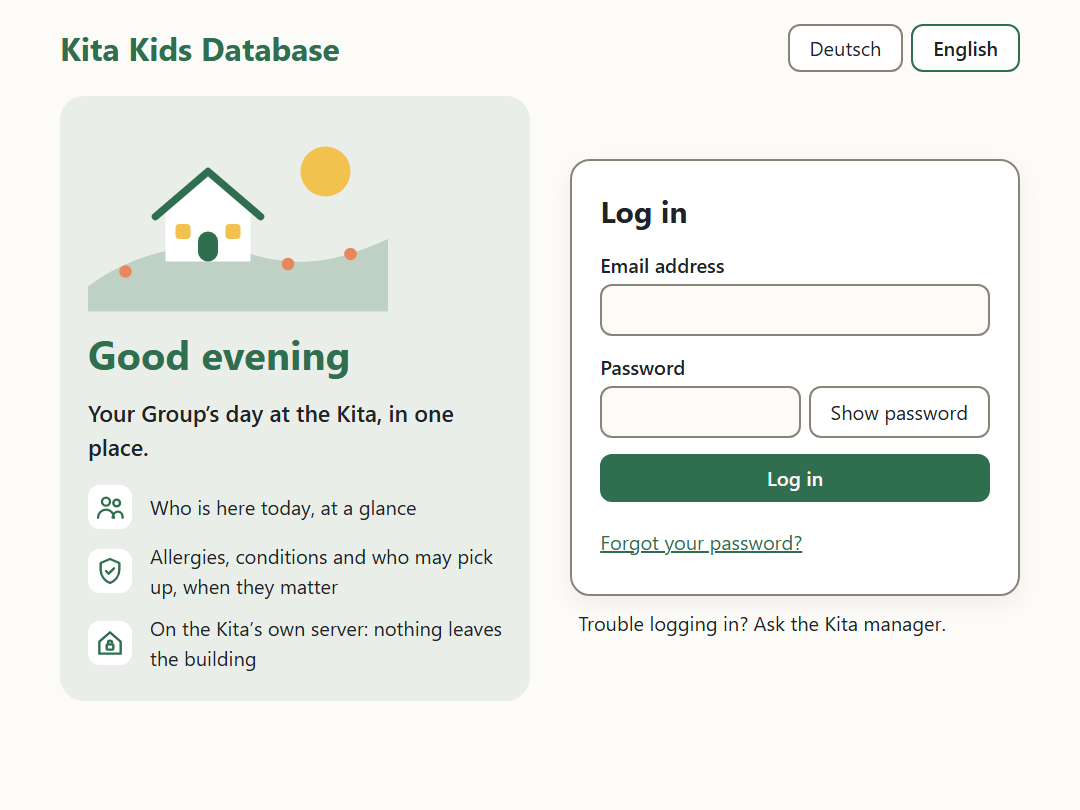
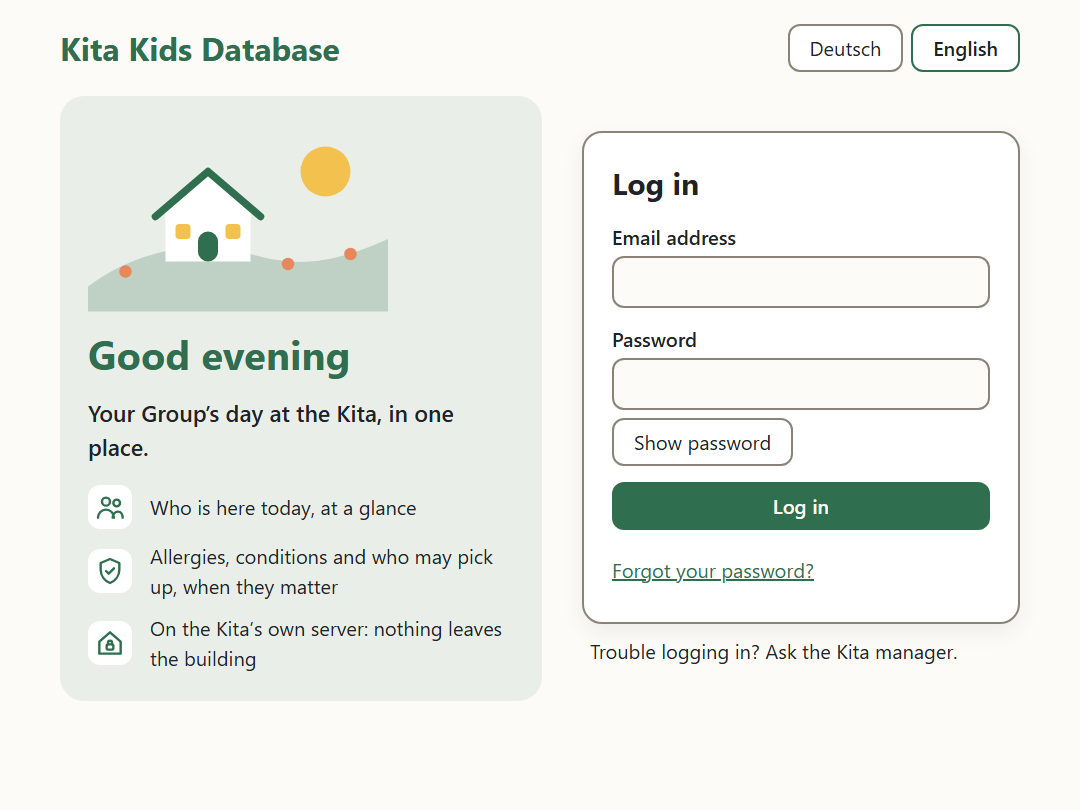
Update the kits, server guide and screenshots for the upgraded pages (#58)
New screenshots in English and German, now also of the login page and
the start page on a 375px phone. The server guide explains KITA_NAME,
KITA_LOGO and KITA_CLOSES_AT; the manual and cards mention "Show
password", the greeting, the day bar and "Needs attention"; the style
guide notes the line icons and the bar's patterns.

The phone screenshots showed the login card wider than the screen: the
login grid may now shrink, and "Show password" moves below the field
when there is no room.

Closes #58

Changed region(s): [[0.5194, 0.1852, 0.9167, 0.8333], [0.9167, 0.7099, 0.9472, 0.7716], [0.9167, 0.1543, 0.9472, 0.216]]

diff --git a/frontend/screens/capture.spec.ts b/frontend/screens/capture.spec.ts
@@ -60,14 +60,18 @@ async function seed(api: APIRequestContext): Promise<{ group: number; lena: numb
   return { group, lena }
 }
 
-async function shoot(page: Page, language: 'en' | 'de', name: string): Promise<void> {
+// A phone held upright, for the screens that change most there.
+const PHONE_WIDTH = 375
+
+async function shoot(page: Page, language: 'en' | 'de', name: string, width?: number): Promise<void> {
   // Settled first: no spinner or half-loaded list in the picture.
   await page.waitForLoadState('networkidle')
   // As tall as the page, so the tab bar is at its foot as on the tablet (a full-page shot would
   // leave it where the tablet's screen ends), then back to the tablet's size.
   const tablet = page.viewportSize()!
+  await page.setViewportSize({ width: width ?? tablet.width, height: tablet.height })
   const height = await page.evaluate(() => document.documentElement.scrollHeight)
-  await page.setViewportSize({ width: tablet.width, height: Math.max(height, tablet.height) })
+  await page.setViewportSize({ width: width ?? tablet.width, height: Math.max(height, tablet.height) })
   await page.screenshot({ path: `${out}${language}/${name}.png` })
   await page.setViewportSize(tablet)
 }
@@ -82,6 +86,7 @@ test('screenshots of the main screens', async ({ page }) => {
   test.setTimeout(120_000)
   await page.goto('/')
   await shoot(page, 'en', '01-login')
+  await shoot(page, 'en', '11-login-phone', PHONE_WIDTH)
   await logInAsAdmin(page)
   const { group, lena } = await seed(page.request)
 
@@ -95,6 +100,7 @@ test('screenshots of the main screens', async ({ page }) => {
     }
     await page.goto('/')
     await shoot(page, language, '02-start')
+    await shoot(page, language, '12-start-phone', PHONE_WIDTH)
     await page.goto(`/groups/${group}`)
     await shoot(page, language, '03-group-today')
     // Before Lena goes home: who may pick her up.
@@ -121,4 +127,5 @@ test('screenshots of the main screens', async ({ page }) => {
   await page.goto('/')
   await expect(page.getByRole('button', { name: 'Anmelden' })).toBeVisible()
   await shoot(page, 'de', '01-login')
+  await shoot(page, 'de', '11-login-phone', PHONE_WIDTH)
 })

diff --git a/frontend/src/index.css b/frontend/src/index.css
@@ -202,13 +202,15 @@ button[aria-pressed='true'] {
 /* The login page: a warm welcome beside the login card; one above the other on narrow screens. */
 .login-page {
   display: grid;
+  /* Never wider than the screen: the column may shrink below its content's natural width. */
+  grid-template-columns: minmax(0, 1fr);
   gap: 24px;
   margin: 24px 0;
 }
 
 @media (min-width: 900px) {
   .login-page {
-    grid-template-columns: 1.1fr 1fr;
+    grid-template-columns: minmax(0, 1.1fr) minmax(0, 1fr);
     align-items: center;
     gap: 40px;
   }
@@ -325,11 +327,13 @@ button[aria-pressed='true'] {
 
 .password-field div {
   display: flex;
+  flex-wrap: wrap;
   gap: 8px;
 }
 
+/* At least about 12 characters wide; the button moves below the field when there is no room. */
 .password-field input {
-  flex: 1;
+  flex: 1 1 12rem;
   min-width: 0;
 }
 

diff --git a/docs/go-live/de/01-handbuch.md b/docs/go-live/de/01-handbuch.md
@@ -8,7 +8,7 @@ Für alle in der Kita, die mit der App arbeiten. Teil 1 ist für alle Mitarbeite
 
 ![Die Anmeldeseite](../../usability/screens/de/01-login.png)
 
-Die App vom Startbildschirm des Tablets öffnen (oder `https://kita.home.arpa` im Browser). Mit Ihrer E-Mail-Adresse und Ihrem Passwort anmelden. „Deutsch“ oder „English“ oben wechselt die Sprache; das Tablet merkt sie sich.
+Die App vom Startbildschirm des Tablets öffnen (oder `https://kita.home.arpa` im Browser). Mit Ihrer E-Mail-Adresse und Ihrem Passwort anmelden. „Passwort zeigen“ zeigt, was Sie getippt haben; nach dem Anmelden ist es wieder verborgen. „Deutsch“ oder „English“ oben wechselt die Sprache; das Tablet merkt sie sich.
 
 - **Ihr Konto.** Eine Admin legt es an; Sie bekommen eine E-Mail mit einem Link (7 Tage gültig). Folgen Sie ihm und wählen Sie ein Passwort mit mindestens 12 Zeichen.
 - **Passwort vergessen?** „Passwort vergessen?“ auf der Anmeldeseite schickt Ihnen einen Link (1 Stunde gültig).
@@ -21,7 +21,7 @@ Die App vom Startbildschirm des Tablets öffnen (oder `https://kita.home.arpa` i
 
 ![Die Startseite](../../usability/screens/de/02-start.png)
 
-Nach dem Anmelden sind Sie dort, wo Ihr Tag ist. Arbeiten Sie in einer Gruppe, öffnet sich ihr „Heute“ von selbst. Arbeiten Sie in mehreren, zeigt die Startseite für jede eine Kachel mit den Zahlen von heute: auf Ihre tippen. Admins sehen die Übersicht der Kita: den Tag jeder Gruppe, wer noch da ist, Kinder ohne Gruppe und die Vorfälle von heute.
+Nach dem Anmelden sind Sie dort, wo Ihr Tag ist. Arbeiten Sie in einer Gruppe, öffnet sich ihr „Heute“ von selbst. Arbeiten Sie in mehreren, zeigt die Startseite für jede eine Kachel mit den Zahlen von heute: auf Ihre tippen. Admins sehen die Übersicht der Kita. Sie begrüßt Sie mit Namen und zeigt den Tag der ganzen Kita als Balken, dann die Kachel jeder Gruppe. **„Bitte beachten“** zeigt, worum man sich heute kümmern sollte: Kinder, die nach Schließzeit noch da sind, Kinder ohne Gruppe, die Vorfälle von heute und die Geburtstage. Die Zahlen aktualisieren sich alle paar Minuten von selbst („Aktualisiert 09:42“).
 
 ![Die Tagesansicht einer Gruppe](../../usability/screens/de/03-group-today.png)
 

diff --git a/docs/usability/de/02-gestaltungsregeln.md b/docs/usability/de/02-gestaltungsregeln.md
@@ -20,9 +20,9 @@ Mitarbeiter:innen mit Grundkenntnissen am Computer, ein Tablet in einer Hand, of
 | | Rot (Allergien, Gefahr) #b42318 auf dem Hintergrund | 6,4:1 (dunkler Modus 7,7:1) | ✓ |
 | **Kontrast von Umrissen** (WCAG 1.4.11, 3:1 für das, was zeigt, wo ein Feld oder Knopf ist) | Rand #8a8478 auf dem Hintergrund und auf Karten (dunkler Modus #7a808a) | 3,6:1 auf dem Hintergrund, 3,7:1 auf Karten (dunkler Modus 4,4:1 und 3,9:1) | ✓ |
 | **Fokus** | Ein deutlicher Rahmen um das, was den Tastaturfokus hat | 3px-Rahmen in der Akzentfarbe | ✓ |
-| **Symbole mit Text** | Nie ein Symbol allein: Gruppensymbole stehen neben dem Namen der Gruppe; Allergien zeigen z. B. „⚠ Allergien: Peanuts“ | **Im Monatskalender zeigen Termine einer Gruppe nur ihr Symbol** (der Name ist nur für Bildschirmleser da) | ✗ |
+| **Symbole mit Text** | Nie ein Symbol allein. Bedien-Symbole sind schlichte Strichzeichnungen in der Farbe des Textes daneben (keine Emoji); Gruppensymbole (Tiere, Pflanzen) stehen neben dem Namen der Gruppe; Allergien zeigen ein Warnzeichen und z. B. „Allergien: Peanuts“ | **Im Monatskalender zeigen Termine einer Gruppe nur ihr Symbol** (der Name ist nur für Bildschirmleser da) | ✗ |
 | **Gruppensymbole** | Jede Gruppe hat ein Tier- oder Pflanzensymbol, auf den Gruppenkacheln der Startseite, in „Heute“ und im Kalender | — | ✓ |
-| **Nie nur Farbe** | Der Status steht auch als Text da: „Da seit 08:12“, „Abwesend: krank“, „Abgeholt um 15:30“ | — | ✓ |
+| **Nie nur Farbe** | Der Status steht auch als Text da: „Da seit 08:12“, „Abwesend: krank“, „Abgeholt um 15:30“. Die Teile des Tagesbalkens unterscheiden sich auch im Muster (voll, grau, Streifen, gestrichelter Rand), tragen ihre Zahl und stehen ausgeschrieben neben dem Balken | — | ✓ |
 | **Einfache Worte** | Die Begriffe des Glossars (Kind, Gruppe, Allergien und Erkrankungen, Abholberechtigte …), auf Deutsch und Englisch | — | ✓ |
 | **Zweiter Schritt vor allem, was Daten löscht** | Löschen fragt nach; endgültiges Löschen sagt, dass es nicht rückgängig zu machen ist | — | ✓ |
 | **Dunkler Modus** | Folgt der Einstellung des Geräts | — | ✓ |

diff --git a/docs/go-live/en/01-user-manual.md b/docs/go-live/en/01-user-manual.md
@@ -8,7 +8,7 @@ For everyone at the Kita who works with the app. Part 1 is for every Staff membe
 
 ![The login page](../../usability/screens/en/01-login.png)
 
-Open the app from the tablet's home screen (or `https://kita.home.arpa` in the browser). Log in with your email address and your password. "Deutsch" or "English" at the top switches the language; the tablet remembers it.
+Open the app from the tablet's home screen (or `https://kita.home.arpa` in the browser). Log in with your email address and your password. "Show password" lets you check what you typed; it is hidden again once you log in. "Deutsch" or "English" at the top switches the language; the tablet remembers it.
 
 - **Your account.** An Admin creates it; you get an email with a link (valid for 7 days). Follow it and choose a password of at least 12 characters.
 - **Forgotten your password?** "Forgot your password?" on the login page sends you a link (valid for 1 hour).
@@ -21,7 +21,7 @@ Open the app from the tablet's home screen (or `https://kita.home.arpa` in the b
 
 ![The start page](../../usability/screens/en/02-start.png)
 
-After logging in you are where your day is. If you work in one Group, its Today view opens by itself. If you work in several, Home shows a tile for each with today's counts: tap yours. Admins see the Kita overview: every Group's day, who is still checked in, Children in no Group, and today's Incidents.
+After logging in you are where your day is. If you work in one Group, its Today view opens by itself. If you work in several, Home shows a tile for each with today's counts: tap yours. Admins see the Kita overview. It greets you by name and shows the whole Kita's day as a bar, then every Group's tile. **"Needs attention"** lists what to see to today: Children still checked in after closing time, Children in no Group, today's Incidents, and today's Birthdays. The numbers update by themselves every few minutes ("Updated 09:42").
 
 ![A Group's Today view](../../usability/screens/en/03-group-today.png)
 

diff --git a/docs/usability/en/02-style-guide.md b/docs/usability/en/02-style-guide.md
@@ -20,9 +20,9 @@ Staff with basic computer skills, on a tablet held in one hand, often in a hurry
 | | Red (Alerts, danger) #b42318 on the background | 6.4:1 (dark mode 7.7:1) | ✓ |
 | **Outline contrast** (WCAG 1.4.11, 3:1 for what shows where a field or button is) | Border #8a8478 on the background and on cards (dark mode #7a808a) | 3.6:1 on the background, 3.7:1 on cards (dark mode 4.4:1 and 3.9:1) | ✓ |
 | **Focus** | A clear outline around whatever has the keyboard focus | 3px outline in the accent colour | ✓ |
-| **Icons with text** | Never an icon alone: Group icons stand next to the Group's name; Alerts show e.g. "⚠ Allergies: Peanuts" | **In the month calendar, a Group's Events show only its icon** (the name is there for screen readers only) | ✗ |
+| **Icons with text** | Never an icon alone. Interface icons are simple line drawings in the colour of the text beside them (no emoji); Group icons (animals, plants) stand next to the Group's name; Alerts show a warning sign and e.g. "Allergies: Peanuts" | **In the month calendar, a Group's Events show only its icon** (the name is there for screen readers only) | ✗ |
 | **Group icons** | Each Group has an animal or plant icon, shown on the Group tiles of the start page, the Today view and the Calendar | — | ✓ |
-| **Colour never alone** | Status is also written: "Here since 08:12", "Absent: sick", "Gone home at 15:30" | — | ✓ |
+| **Colour never alone** | Status is also written: "Here since 08:12", "Absent: sick", "Gone home at 15:30". The day bar's parts also differ by pattern (solid, grey, stripes, dashed outline), carry their number, and are written out beside the bar | — | ✓ |
 | **Plain words** | The words of the glossary (Child, Group, Alert, Pick-up person …), in German and English | — | ✓ |
 | **Second step before anything that loses data** | Deleting asks again; deleting for good says it cannot be undone | — | ✓ |
 | **Dark mode** | Follows the device's setting | — | ✓ |

diff --git a/docs/server/de/02-installation.md b/docs/server/de/02-installation.md
@@ -192,6 +192,14 @@ echo "alias dc='docker compose -f /opt/kita/compose.prod.yaml'" >> ~/.bashrc   #
 
 `.env` ausfüllen, wie dort beschrieben: `KITA_HOSTNAME=kita.home.arpa`, `KITA_BACKUP_DIR=/mnt/backup/kita`, `KITA_OFFSITE_DIR=/mnt/offsite`, die Mail-Einstellungen und die beiden Schlüssel (dort steht, wie man sie erzeugt). **Den App-Schlüssel und den privaten Sicherungsschlüssel drucken** und wegschließen. Dann dem Abschnitt „Run in production“ der README folgen: die App starten, die erste Admin anlegen, das Stammzertifikat von Caddy auf jedem Tablet installieren.
 
+Drei Einstellungen machen die App zu der der Kita (alle freiwillig):
+
+- `KITA_NAME=Kita Sonnenschein`: der Name der Kita auf der Anmeldeseite und oben auf jeder Seite. Ohne ihn heißt die App „Kita Kids Database“.
+- `KITA_LOGO=logo.png`: ein Logo neben dem Namen. Die Datei in `/opt/kita/branding/` legen. Sie muss ein PNG-, JPEG- oder WebP-Bild sein (kein SVG), am besten quadratisch oder breit, etwa 200 Pixel hoch. Ohne sie, oder bei einer anderen Dateiart, erscheint kein Logo.
+- `KITA_CLOSES_AT=16:30`: wann die Kita schließt, in der Zeit der Kita. Danach zeigt die Übersicht der Kita unter „Bitte beachten“ jedes Kind, das noch angemeldet ist. Ohne sie erscheint diese Liste nie.
+
+Nach einer Änderung: `dc up -d`.
+
 ## 12. Die USV
 
 Per USB anschließen, dann:

diff --git a/docs/usability/README.md b/docs/usability/README.md
@@ -4,7 +4,7 @@ Release 1 is built, so the "clickable prototype" is the app itself, run on the t
 
 | Sheet (`en/` · `de/`) | What it is |
 |---|---|
-| `screens/en/`, `screens/de/` | The main screens as they really look on a tablet (in place of wireframes): login, the start page (the Kita overview), a Group's Today view and its check-out with who may pick up, a Child profile with its Alerts, the Tasks, the Calendar, Administration, the Staff accounts, Feedback |
+| `screens/en/`, `screens/de/` | The main screens as they really look on a tablet (in place of wireframes): login, the start page (the Kita overview), a Group's Today view and its check-out with who may pick up, a Child profile with its Alerts, the Tasks, the Calendar, Administration, the Staff accounts, Feedback; the login page and the start page also on a phone (375px) |
 | `01-personas-and-task-flows.md` · `01-personas-und-ablaeufe.md` | Who uses the app and the everyday paths through it |
 | `02-style-guide.md` · `02-gestaltungsregeln.md` | The rules the screens follow (sizes, touch targets, contrast, icons with text), measured, with what does not meet them yet |
 | `03-test-script.md` · `03-testablauf.md` | How to run a session: introduction, the tasks, the closing questions |

diff --git a/docs/server/en/02-install.md b/docs/server/en/02-install.md
@@ -192,6 +192,14 @@ echo "alias dc='docker compose -f /opt/kita/compose.prod.yaml'" >> ~/.bashrc   #
 
 Fill in `.env` as it explains: `KITA_HOSTNAME=kita.home.arpa`, `KITA_BACKUP_DIR=/mnt/backup/kita`, `KITA_OFFSITE_DIR=/mnt/offsite`, the mail settings, and the two keys (it says how to make them). **Print the app key and the backup private key** and lock them away. Then follow the README's "Run in production": start the stack, create the first Admin, install Caddy's root certificate on every tablet.
 
+Three settings make the app the Kita's own (all optional):
+
+- `KITA_NAME=Kita Sonnenschein`: the Kita's name on the login page and at the top of every page. Without it the app says "Kita Kids Database".
+- `KITA_LOGO=logo.png`: a logo beside the name. Put the file in `/opt/kita/branding/`. It must be a PNG, JPEG or WebP picture (not SVG), ideally square or wide, about 200 pixels high. Without it, or with any other file type, no logo is shown.
+- `KITA_CLOSES_AT=16:30`: when the Kita closes, in the Kita's own time. After it, the Kita overview lists under "Needs attention" every Child still checked in. Without it, that list never shows.
+
+After changing them: `dc up -d`.
+
 ## 12. The UPS
 
 Connect it by USB, then:

diff --git a/docs/go-live/de/02-kurzanleitungen.md b/docs/go-live/de/02-kurzanleitungen.md
@@ -6,7 +6,7 @@ Jede Karte auf eine eigene Seite drucken (A5 oder A6), laminieren und neben die 
 
 ## Karte 1: Jeden Tag (alle Mitarbeiter:innen)
 
-**Anmelden:** die App auf dem Startbildschirm des Tablets → E-Mail-Adresse und Passwort.
+**Anmelden:** die App auf dem Startbildschirm des Tablets → E-Mail-Adresse und Passwort („Passwort zeigen“, um das Getippte zu prüfen).
 
 1. Nach dem Anmelden öffnet sich **„Heute“** Ihrer Gruppe (mehrere Gruppen: auf die **Kachel Ihrer Gruppe** tippen).
 2. Ein Kind kommt → **„Ankommen“**. Abgeholt → **„Abholen“**. Falsch getippt → **„Rückgängig“**.

diff --git a/docs/go-live/en/02-quick-start-cards.md b/docs/go-live/en/02-quick-start-cards.md
@@ -6,7 +6,7 @@ Print each card on its own page (A5 or A6), laminate it, and keep it next to the
 
 ## Card 1: Every day (all Staff)
 
-**Log in:** the app on the tablet's home screen → email address and password.
+**Log in:** the app on the tablet's home screen → email address and password ("Show password" to check what you typed).
 
 1. After logging in, your Group's **Today** opens (several Groups: tap **your Group's tile**).
 2. A Child arrives → **"Check in"**. Picked up → **"Check out"**. Wrong tap → **"Undo"**.
